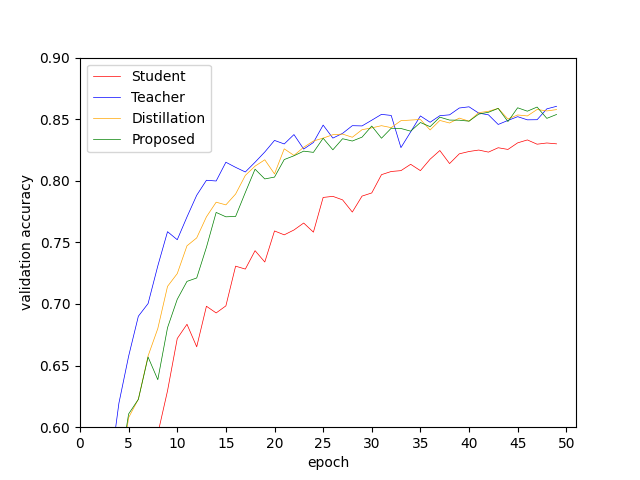
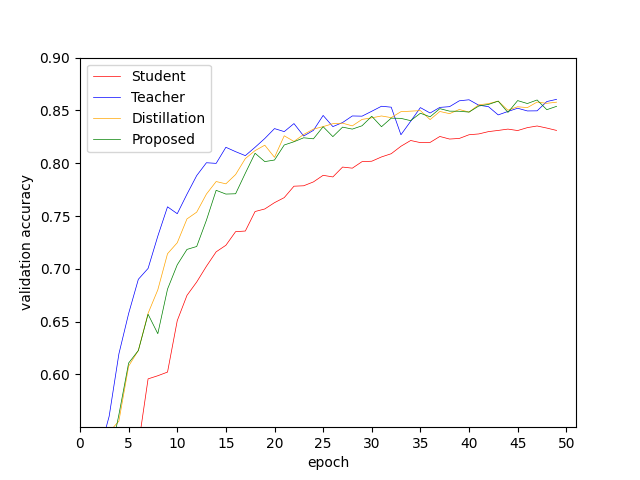
resnet

diff --git a/result_resnet.py b/result_resnet.py
@@ -10,14 +10,14 @@ def main():
     cam_path = './history/resnet/cam/'
     
     # loading history
-    student_acc = load_hist(student_path, 1)
+    student_acc = load_hist(student_path, 5)
     teacher_acc = load_hist(teacher_path, 1)
     st_acc = load_hist(st_path, 1)
     cam_acc = load_hist(cam_path, 1)
     
     # print test accuracy
-    student_avg = load_avg_test(student_path, 1)
-    student_best = load_best_test(student_path, 1)
+    student_avg = load_avg_test(student_path, 5)
+    student_best = load_best_test(student_path, 5)
     teacher_avg = load_avg_test(teacher_path, 1)
     teacher_best = load_best_test(teacher_path, 1)
     st_avg = load_avg_test(st_path, 1)
@@ -44,7 +44,7 @@ def main():
     plt.xticks(np.arange(0, 55, 5))
     plt.yticks(np.arange(0.60, 0.90, 0.05))
     plt.xlim(0, 51)
-    plt.ylim(0.60, 0.90)
+    plt.ylim(0.55, 0.90)
     
     plt.legend()
     plt.savefig('./result/resnet_result.png')

diff --git a/train_resnet.py b/train_resnet.py
@@ -14,9 +14,9 @@ from src.kd_loss.st import SoftTargetLoss
 import pickle
 
 def main():
-    for i in range(1):
+    for i in range(1, 5):
         print(i)
-        model_size = 'teacher'
+        model_size = 'student'
         epochs = 50
         batch_size = 128
         torch.manual_seed(i)
